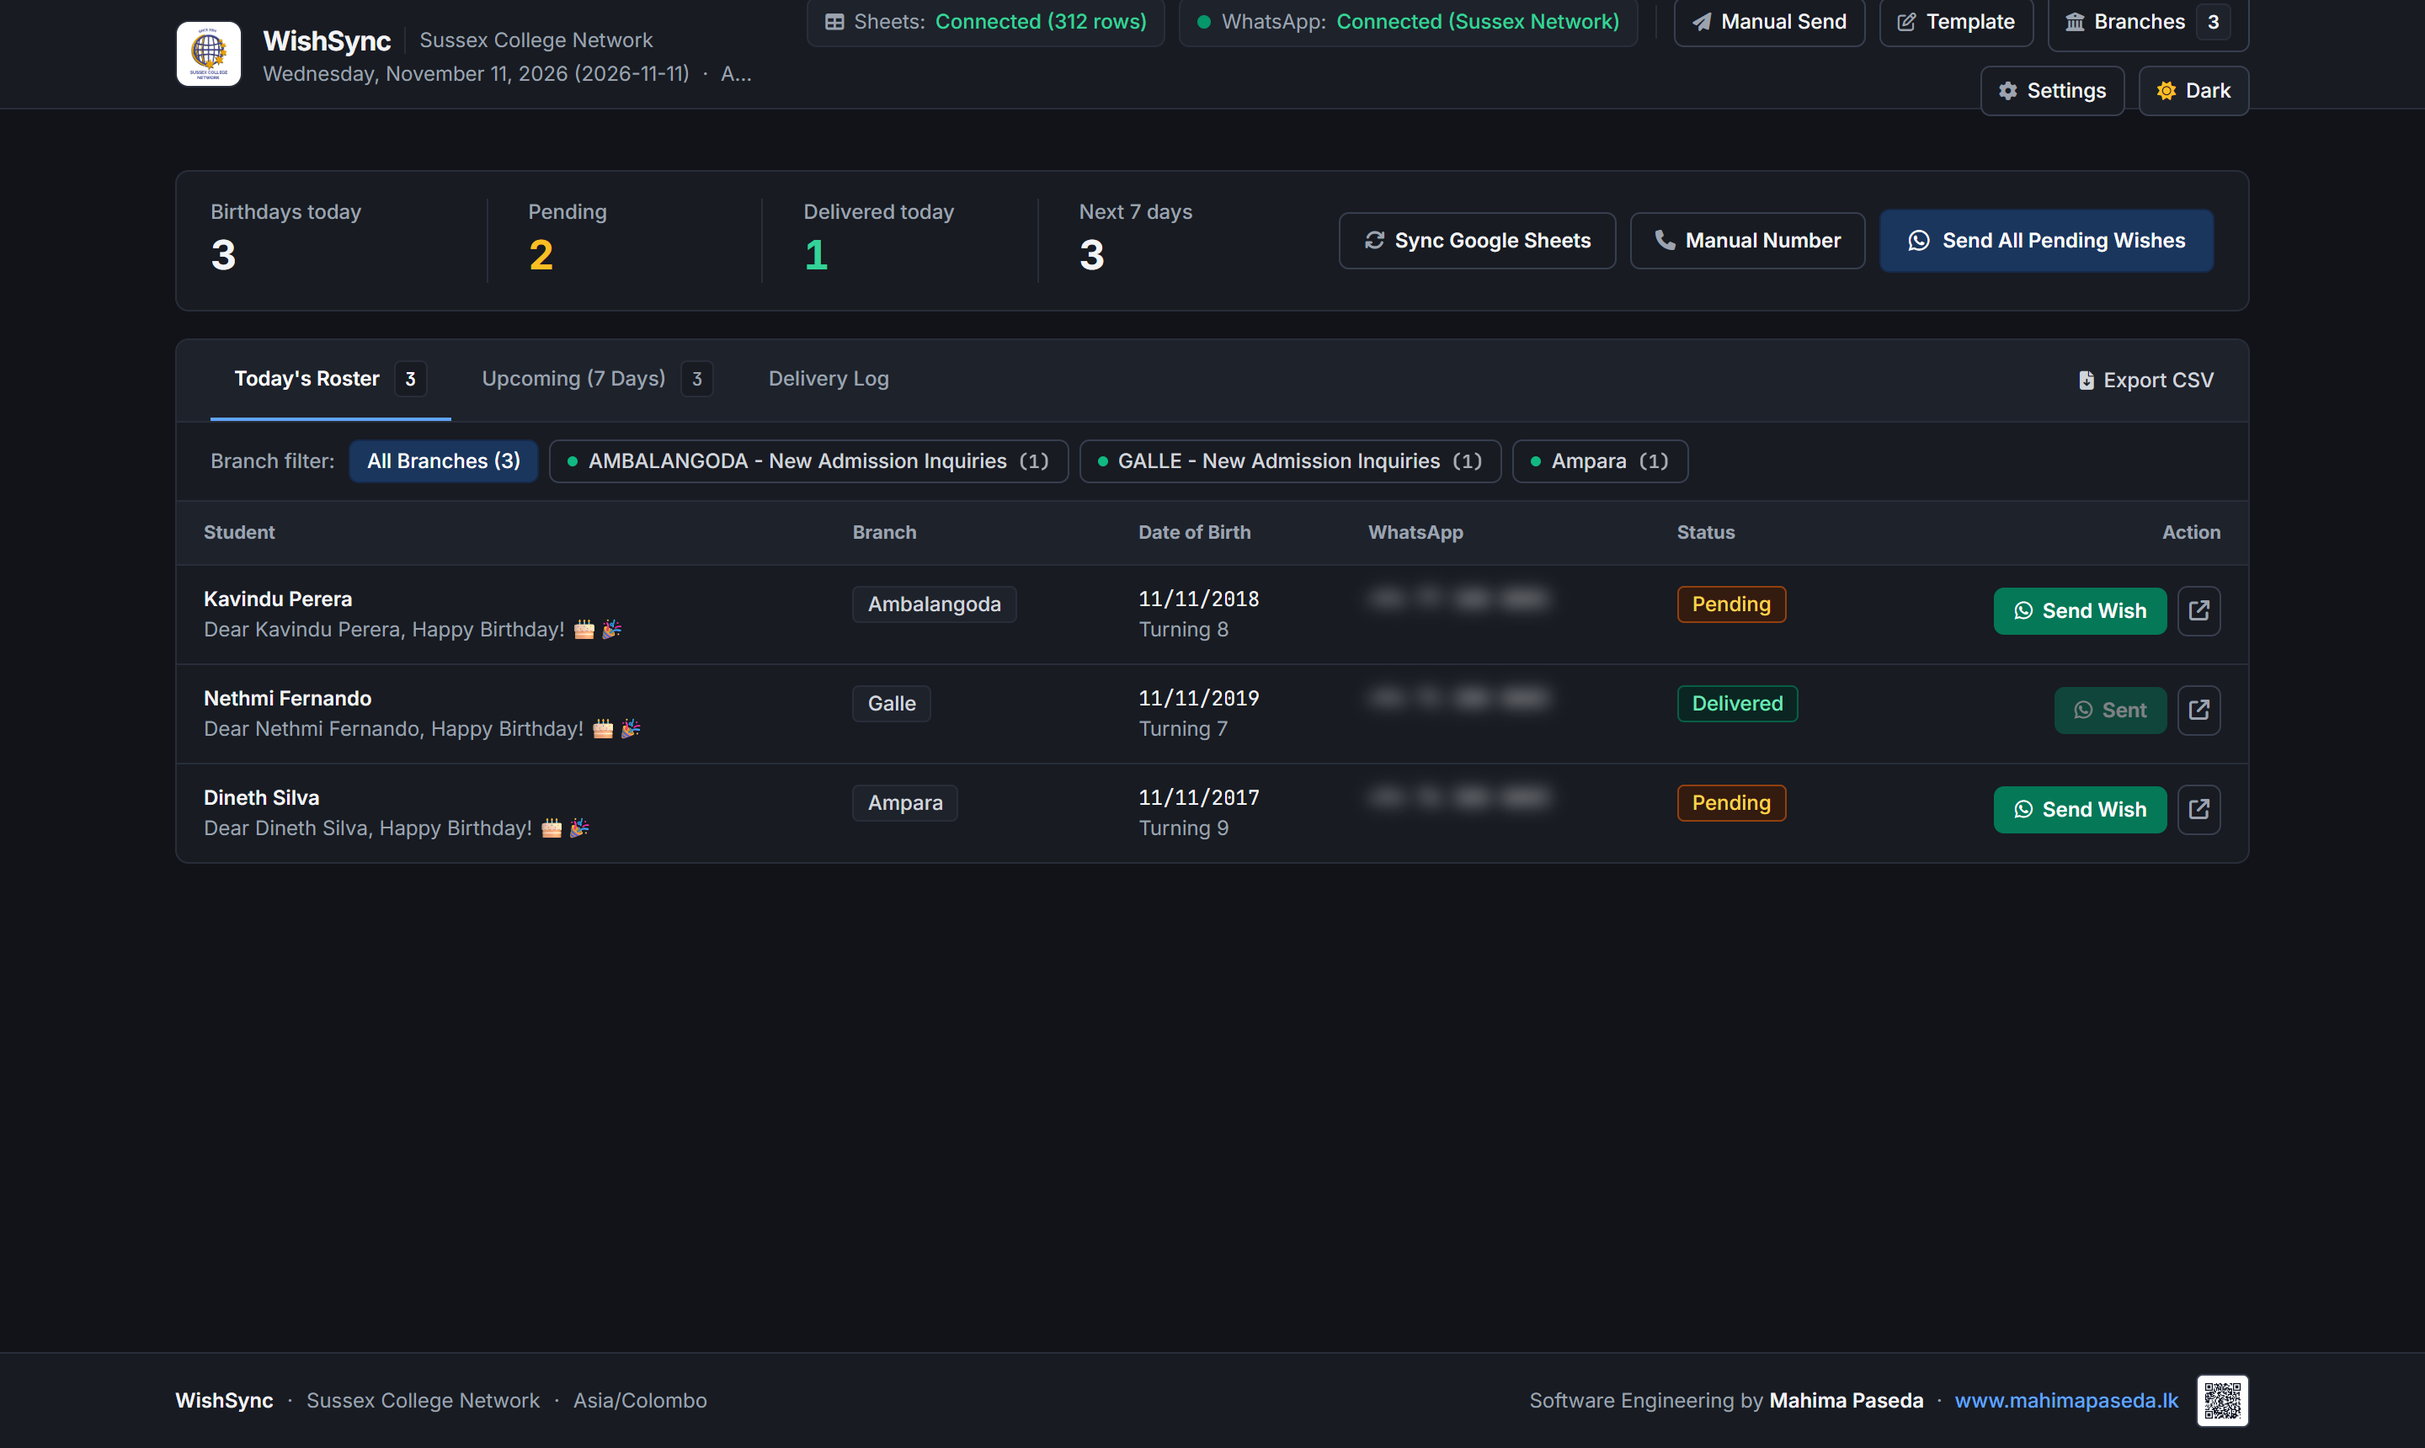
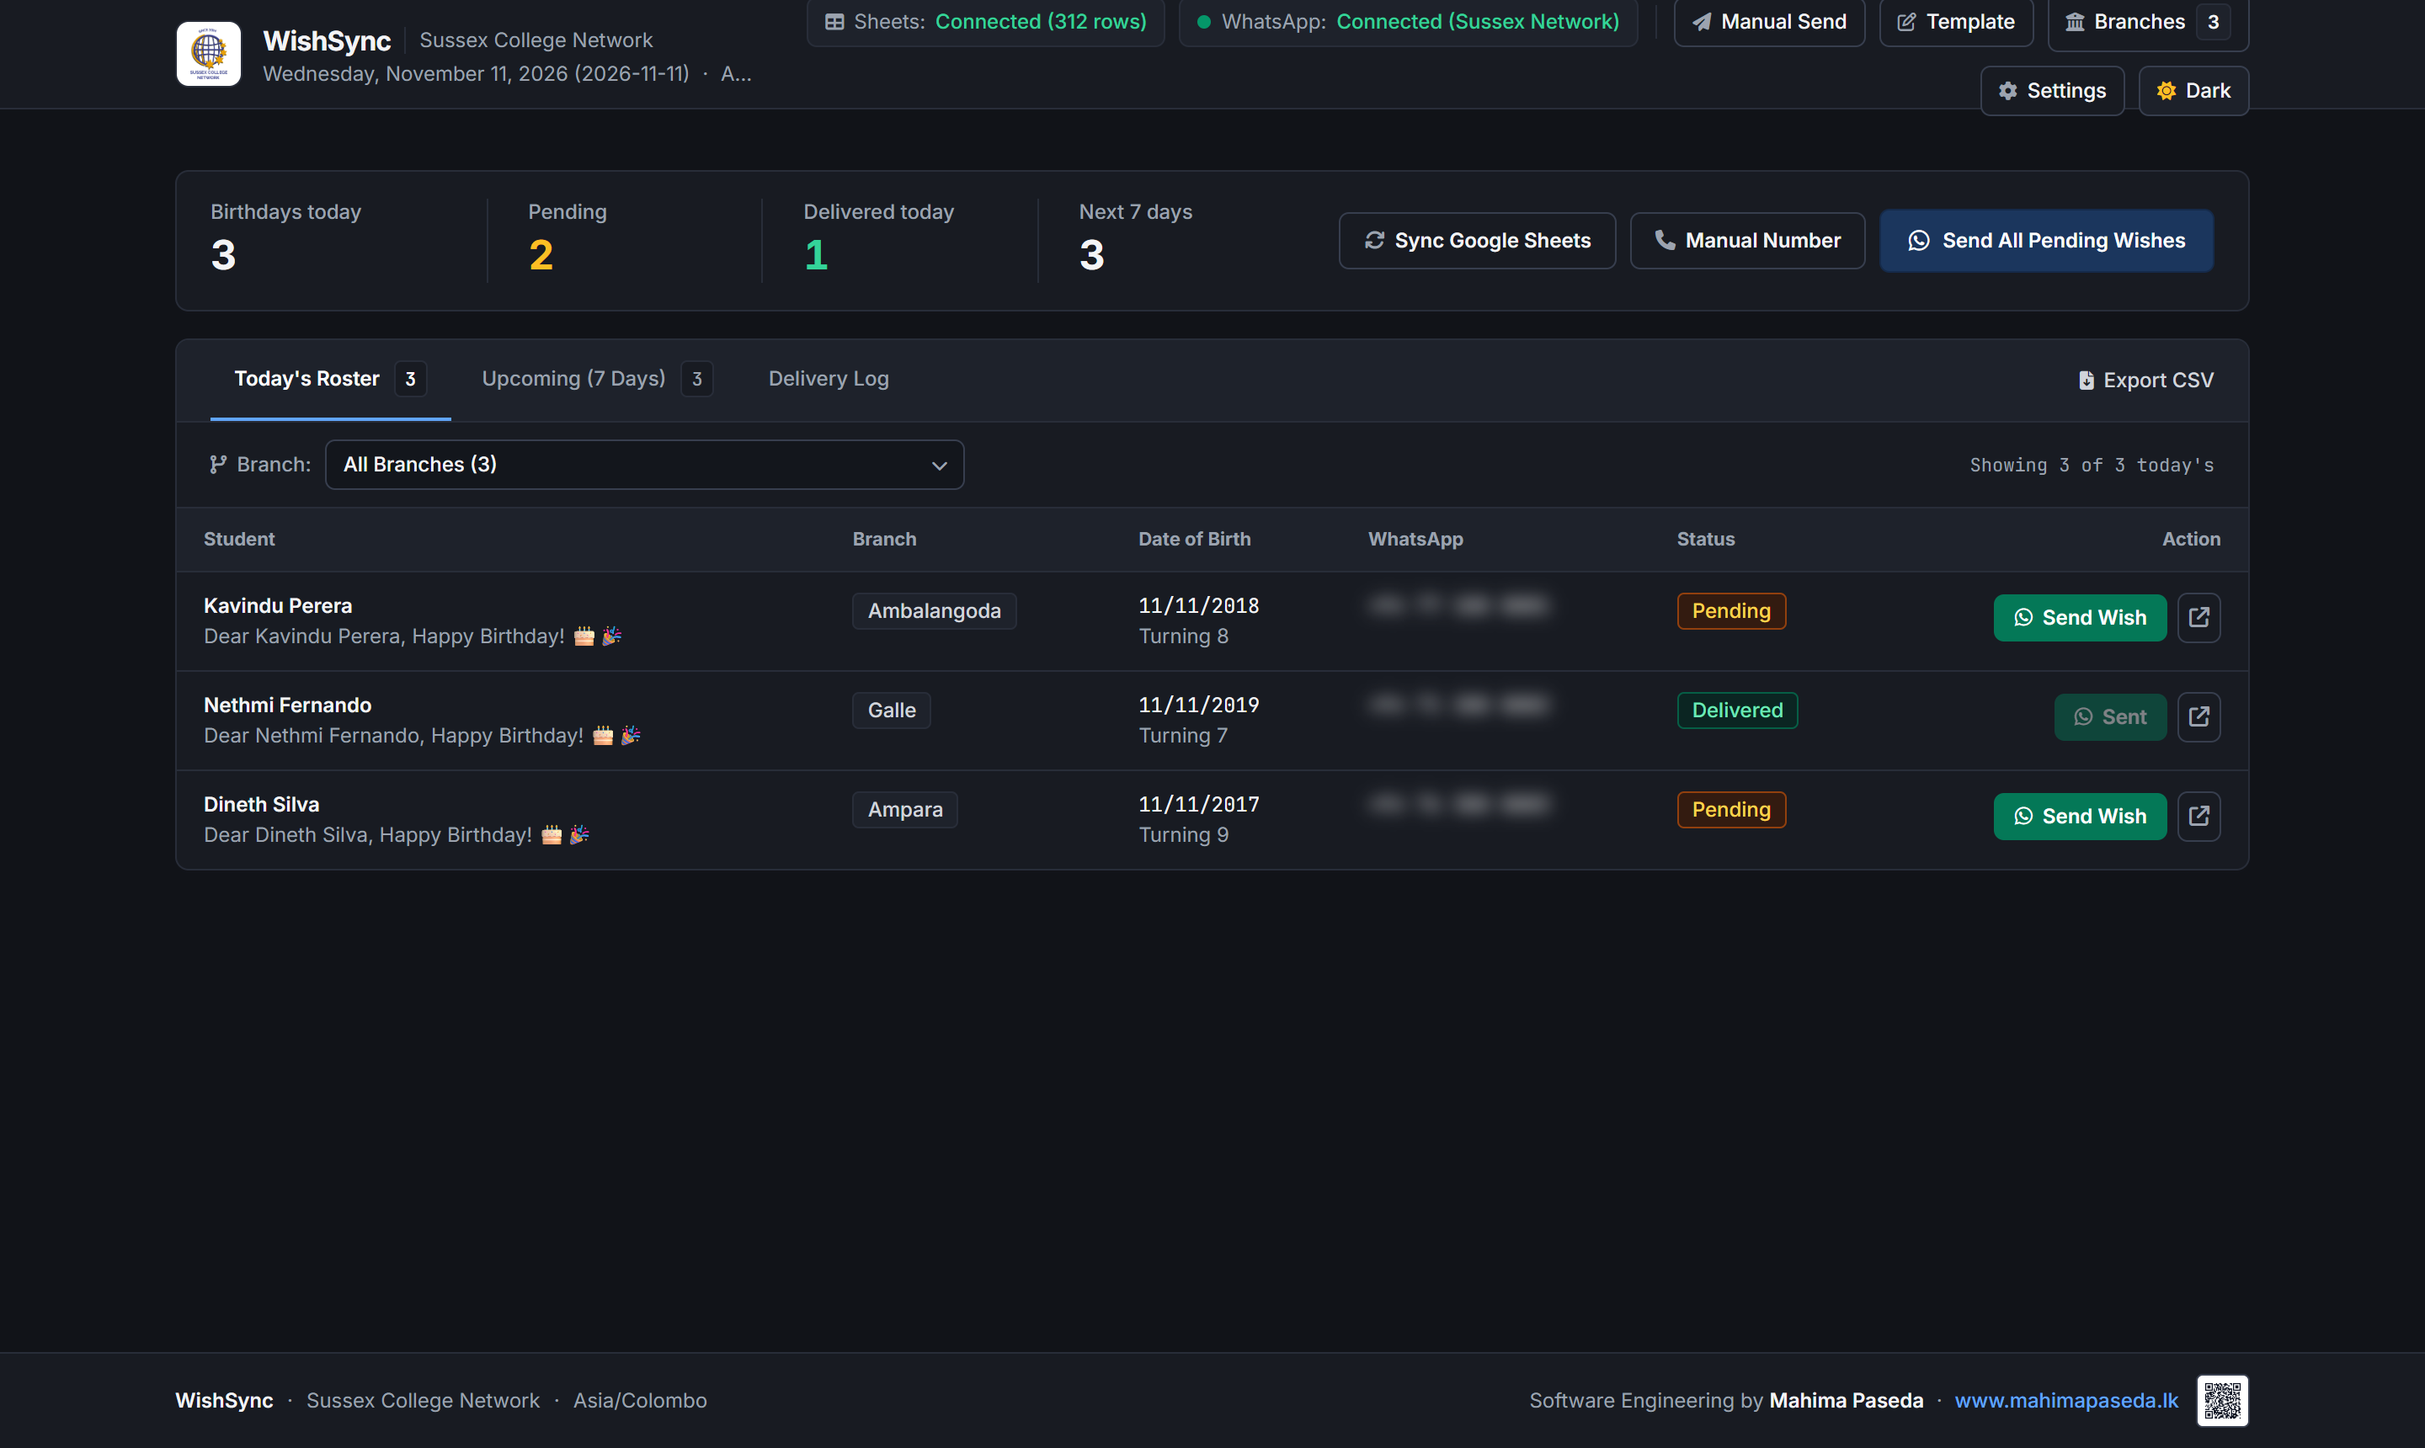
v1.0.7: branch filter dropdown with active-tab counts and data-preserving installer

diff --git a/src/public/app.js b/src/public/app.js
@@ -80,8 +80,9 @@ const branchInputUrl = document.getElementById('branchInputUrl');
 const branchInputTemplate = document.getElementById('branchInputTemplate');
 const branchesListContainer = document.getElementById('branchesListContainer');
 const navBranchCountBadge = document.getElementById('navBranchCountBadge');
-const branchFilterPills = document.getElementById('branchFilterPills');
-const filterAllCount = document.getElementById('filterAllCount');
+const branchFilterSelect = document.getElementById('branchFilterSelect');
+const clearBranchFilterBtn = document.getElementById('clearBranchFilterBtn');
+const branchFilterSummary = document.getElementById('branchFilterSummary');
 
 // Settings Modal Elements
 const settingsModal = document.getElementById('settingsModal');
@@ -195,6 +196,8 @@ function switchWorkspaceTab(tabName) {
 
   if (tabName === 'ledger') {
     loadLedgerRecords();
+  } else {
+    updateBranchFilterPills();
   }
 }
 
@@ -341,58 +344,84 @@ function updateWhatsAppUI(wa) {
   }
 }
 
-// Update Branch Filter Pills
+function normalizeBranchLabel(str) {
+  return (str || '').toString().toLowerCase().replace(/\s+/g, ' ').trim();
+}
+
+function matchesStudentBranch(student, branchFilterValue) {
+  if (!branchFilterValue || branchFilterValue === 'ALL') return true;
+  if (!student) return false;
+  if (student.branchId && student.branchId === branchFilterValue) return true;
+  if (student.id && student.id.startsWith(branchFilterValue)) return true;
+
+  const normStudentBranch = normalizeBranchLabel(student.branch);
+  const targetBranch = currentBranches.find(b => b.id === branchFilterValue);
+  if (targetBranch) {
+    const normTarget = normalizeBranchLabel(targetBranch.name);
+    if (normStudentBranch === normTarget) return true;
+    if (normStudentBranch && normTarget && (normStudentBranch.includes(normTarget) || normTarget.includes(normStudentBranch))) {
+      return true;
+    }
+  }
+
+  const normFilter = normalizeBranchLabel(branchFilterValue);
+  if (normStudentBranch === normFilter) return true;
+  if (normStudentBranch && normFilter && (normStudentBranch.includes(normFilter) || normFilter.includes(normStudentBranch))) {
+    return true;
+  }
+  return false;
+}
+
+// Update Branch Filter Dropdown with counts matching active workspace tab
 function updateBranchFilterPills() {
-  if (!branchFilterPills) return;
+  if (!branchFilterSelect) return;
 
-  const totalToday = currentData.today ? currentData.today.length : 0;
-  if (filterAllCount) filterAllCount.textContent = totalToday;
+  const activeRecords = activeWorkspaceTab === 'upcoming'
+    ? (currentData.upcoming || [])
+    : (currentData.today || []);
+  const totalCount = activeRecords.length;
 
-  const normalize = str => (str || '').toString().toLowerCase().replace(/\s+/g, ' ').trim();
+  const hasSelectedBranch = selectedBranchFilter === 'ALL' || currentBranches.some(
+    b => b.id === selectedBranchFilter || normalizeBranchLabel(b.name) === normalizeBranchLabel(selectedBranchFilter)
+  );
+  if (!hasSelectedBranch) {
+    selectedBranchFilter = 'ALL';
+  }
 
-  const allBtnClass = selectedBranchFilter === 'ALL'
-    ? 'bg-[#1B365D] text-white border-[#152A4A]'
-    : 'btn-neutral text-[var(--text-secondary)]';
-
-  const branchPillsHtml = [
-    `<button type="button" class="branch-filter-btn px-2.5 py-1 rounded-md text-xs font-medium border ${allBtnClass}" data-branch="ALL">All Branches (${totalToday})</button>`
+  const optionsHtml = [
+    `<option value="ALL">All Branches (${totalCount})</option>`
   ];
 
   currentBranches.forEach(b => {
-    const normBranchName = normalize(b.name);
-    const branchCount = (currentData.today || []).filter(s => {
-      if (!s) return false;
-      if (s.branchId && s.branchId === b.id) return true;
-      if (s.id && s.id.startsWith(b.id)) return true;
-      const normStudentBranch = normalize(s.branch);
-      if (normStudentBranch === normBranchName) return true;
-      if (normStudentBranch && normBranchName && (normStudentBranch.includes(normBranchName) || normBranchName.includes(normStudentBranch))) return true;
-      return false;
-    }).length;
-
-    const isActive = selectedBranchFilter === b.id || normalize(selectedBranchFilter) === normBranchName;
-    const btnClass = isActive
-      ? 'bg-[#1B365D] text-white border-[#152A4A]'
-      : 'btn-neutral text-[var(--text-secondary)]';
-
-    branchPillsHtml.push(`
-      <button type="button" class="branch-filter-btn px-2.5 py-1 rounded-md text-xs font-medium border ${btnClass} flex items-center gap-1.5" data-branch="${escapeHtml(b.id)}">
-        <span class="w-1.5 h-1.5 rounded-full ${b.enabled ? 'bg-emerald-500' : 'bg-gray-400'}"></span>
-        <span>${escapeHtml(b.name)}</span>
-        <span class="font-mono text-[11px] opacity-80">(${branchCount})</span>
-      </button>
-    `);
+    const branchCount = activeRecords.filter(s => matchesStudentBranch(s, b.id)).length;
+    const statusPrefix = b.enabled ? '' : '[Paused] ';
+    optionsHtml.push(
+      `<option value="${escapeHtml(b.id)}">${statusPrefix}${escapeHtml(b.name)} (${branchCount})</option>`
+    );
   });
 
-  branchFilterPills.innerHTML = branchPillsHtml.join('');
+  branchFilterSelect.innerHTML = optionsHtml.join('');
 
-  document.querySelectorAll('.branch-filter-btn').forEach(btn => {
-    btn.addEventListener('click', () => {
-      selectedBranchFilter = btn.getAttribute('data-branch');
-      updateBranchFilterPills();
-      updateBirthdaysUI(currentData);
-    });
-  });
+  if (selectedBranchFilter !== 'ALL') {
+    const matchedBranch = currentBranches.find(
+      b => b.id === selectedBranchFilter || normalizeBranchLabel(b.name) === normalizeBranchLabel(selectedBranchFilter)
+    );
+    branchFilterSelect.value = matchedBranch ? matchedBranch.id : 'ALL';
+  } else {
+    branchFilterSelect.value = 'ALL';
+  }
+
+  if (clearBranchFilterBtn) {
+    clearBranchFilterBtn.classList.toggle('hidden', selectedBranchFilter === 'ALL');
+  }
+
+  if (branchFilterSummary) {
+    const shownCount = selectedBranchFilter === 'ALL'
+      ? totalCount
+      : activeRecords.filter(s => matchesStudentBranch(s, selectedBranchFilter)).length;
+    const scopeLabel = activeWorkspaceTab === 'upcoming' ? 'upcoming' : "today's";
+    branchFilterSummary.textContent = `Showing ${shownCount} of ${totalCount} ${scopeLabel}`;
+  }
 }
 
 // Render Today & Upcoming Student Tables
@@ -403,26 +432,8 @@ function updateBirthdaysUI(data) {
   let displayUpcoming = data.upcoming || [];
 
   if (selectedBranchFilter !== 'ALL') {
-    const normalize = str => (str || '').toString().toLowerCase().replace(/\s+/g, ' ').trim();
-    const isMatch = s => {
-      if (!s) return false;
-      if (s.branchId && s.branchId === selectedBranchFilter) return true;
-      if (s.id && s.id.startsWith(selectedBranchFilter)) return true;
-      const targetBranch = currentBranches.find(b => b.id === selectedBranchFilter);
-      if (targetBranch) {
-        const normTarget = normalize(targetBranch.name);
-        const normStudentBranch = normalize(s.branch);
-        if (normStudentBranch === normTarget) return true;
-        if (normStudentBranch && normTarget && (normStudentBranch.includes(normTarget) || normTarget.includes(normStudentBranch))) return true;
-      }
-      const normFilter = normalize(selectedBranchFilter);
-      const normStudentBranch = normalize(s.branch);
-      if (normStudentBranch === normFilter) return true;
-      if (normStudentBranch && normFilter && (normStudentBranch.includes(normFilter) || normFilter.includes(normStudentBranch))) return true;
-      return false;
-    };
-    displayToday = displayToday.filter(isMatch);
-    displayUpcoming = displayUpcoming.filter(isMatch);
+    displayToday = displayToday.filter(s => matchesStudentBranch(s, selectedBranchFilter));
+    displayUpcoming = displayUpcoming.filter(s => matchesStudentBranch(s, selectedBranchFilter));
   }
 
   const pendingCount = displayToday.filter(s => s.status === 'PENDING_TODAY').length;
@@ -1250,6 +1261,22 @@ document.addEventListener('DOMContentLoaded', () => {
   if (tabBtnToday) tabBtnToday.addEventListener('click', () => switchWorkspaceTab('today'));
   if (tabBtnUpcoming) tabBtnUpcoming.addEventListener('click', () => switchWorkspaceTab('upcoming'));
   if (tabBtnLedger) tabBtnLedger.addEventListener('click', () => switchWorkspaceTab('ledger'));
+
+  // Branch filter dropdown
+  if (branchFilterSelect) {
+    branchFilterSelect.addEventListener('change', () => {
+      selectedBranchFilter = branchFilterSelect.value || 'ALL';
+      updateBirthdaysUI(currentData);
+      updateBranchFilterPills();
+    });
+  }
+  if (clearBranchFilterBtn) {
+    clearBranchFilterBtn.addEventListener('click', () => {
+      selectedBranchFilter = 'ALL';
+      updateBirthdaysUI(currentData);
+      updateBranchFilterPills();
+    });
+  }
 
   fetchAllState();
 

diff --git a/src/public/index.html b/src/public/index.html
@@ -319,13 +319,23 @@
       </div>
 
       <!-- Branch Filter Bar (Shown for Today & Upcoming tabs) -->
-      <div id="branchFilterStrip" class="px-4 sm:px-5 py-2.5 border-b border-[var(--border-hairline)] bg-[var(--bg-panel)] flex items-center gap-2 overflow-x-auto text-xs">
-        <span class="text-[var(--text-muted)] font-medium shrink-0">Branch filter:</span>
-        <div id="branchFilterPills" class="flex items-center gap-1.5">
-          <button type="button" class="branch-filter-btn px-2.5 py-1 rounded-md text-xs font-semibold bg-[#1B365D] text-white" data-branch="ALL">
-            All Branches (<span id="filterAllCount">0</span>)
+      <div id="branchFilterStrip" class="px-4 sm:px-5 py-2.5 border-b border-[var(--border-hairline)] bg-[var(--bg-panel)] flex flex-wrap items-center justify-between gap-2.5 text-xs">
+        <div class="flex items-center gap-2 min-w-0 flex-1 max-w-md">
+          <label for="branchFilterSelect" class="text-[var(--text-muted)] font-medium shrink-0 flex items-center gap-1.5">
+            <i class="fa-solid fa-code-branch text-[11px]"></i>
+            <span>Branch:</span>
+          </label>
+          <div class="relative flex-1 min-w-[200px]">
+            <select id="branchFilterSelect" class="app-input w-full rounded-md pl-2.5 pr-8 py-1.5 text-xs font-medium appearance-none cursor-pointer truncate">
+              <option value="ALL">All Branches (0)</option>
+            </select>
+            <i class="fa-solid fa-chevron-down text-[10px] text-[var(--text-muted)] pointer-events-none absolute right-2.5 top-1/2 -translate-y-1/2"></i>
+          </div>
+          <button id="clearBranchFilterBtn" type="button" class="btn-neutral px-2 py-1 rounded text-[11px] font-medium shrink-0 hidden">
+            Reset
           </button>
         </div>
+        <div id="branchFilterSummary" class="text-[11px] text-[var(--text-muted)] font-mono shrink-0"></div>
       </div>
 
       <!-- Tab Panel 1: Today's Birthdays -->

diff --git a/README.md b/README.md
@@ -2,10 +2,10 @@
   <img src="src/public/sussex-logo.jpg" alt="Sussex College Network Logo" width="84" />
   <h1>WishSync</h1>
   <p><strong>Automated Birthday Dispatch Desktop Software for Google Sheets &amp; WhatsApp</strong></p>
-  <p>Built for the <strong>Sussex College Network</strong> &bull; Lightweight 4GB-RAM Windows Startup Edition (<code>v1.0.6</code>)</p>
+  <p>Built for the <strong>Sussex College Network</strong> &bull; Lightweight 4GB-RAM Windows Startup Edition (<code>v1.0.7</code>)</p>
 
   <p>
-    <img src="https://img.shields.io/badge/Version-1.0.6-1B365D?style=flat-square" alt="Version 1.0.6" />
+    <img src="https://img.shields.io/badge/Version-1.0.7-1B365D?style=flat-square" alt="Version 1.0.7" />
     <img src="https://img.shields.io/badge/Platform-Windows%20Desktop%20%7C%20Electron-0F766E?style=flat-square" alt="Windows Desktop Electron" />
     <img src="https://img.shields.io/badge/RAM%20Target-4GB%20Low--End%20PCs-B45309?style=flat-square" alt="4GB RAM Optimized" />
     <img src="https://img.shields.io/badge/Package-%40mahimapaseda%2Fwishsync-24292F?style=flat-square" alt="GitHub Packages" />
@@ -66,7 +66,7 @@
 
 ---
 
-## Optimized for 4GB RAM & Windows Startup PCs (`v1.0.6`)
+## Optimized for 4GB RAM & Windows Startup PCs (`v1.0.7`)
 
 Designed specifically to run quietly all day on older 4GB RAM office PCs configured for **Start with Windows**:
 
@@ -81,8 +81,8 @@ Designed specifically to run quietly all day on older 4GB RAM office PCs configu
 
 Download pre-built Windows binaries directly from [**GitHub Releases**](../../releases):
 
-- **Installer**: `WishSync Setup 1.0.6.exe` — Performs a clean Windows installation (purging stale browser/WhatsApp caches and legacy app data), creates desktop/Start Menu shortcuts, registers the `wishsync://` protocol handler, and enables Windows startup tray launch.
-- **Portable**: `WishSync 1.0.6.exe` — Single-file portable executable with zero installation required.
+- **Installer**: `WishSync Setup 1.0.7.exe` — Installs or upgrades WishSync while preserving existing client data (`%APPDATA%\WishSync` WhatsApp session, Google Sheets sign-in, branch settings, and delivery log), creates desktop/Start Menu shortcuts, registers the `wishsync://` protocol handler, and enables Windows startup tray launch.
+- **Portable**: `WishSync 1.0.7.exe` — Single-file portable executable with zero installation required.
 
 ---
 
